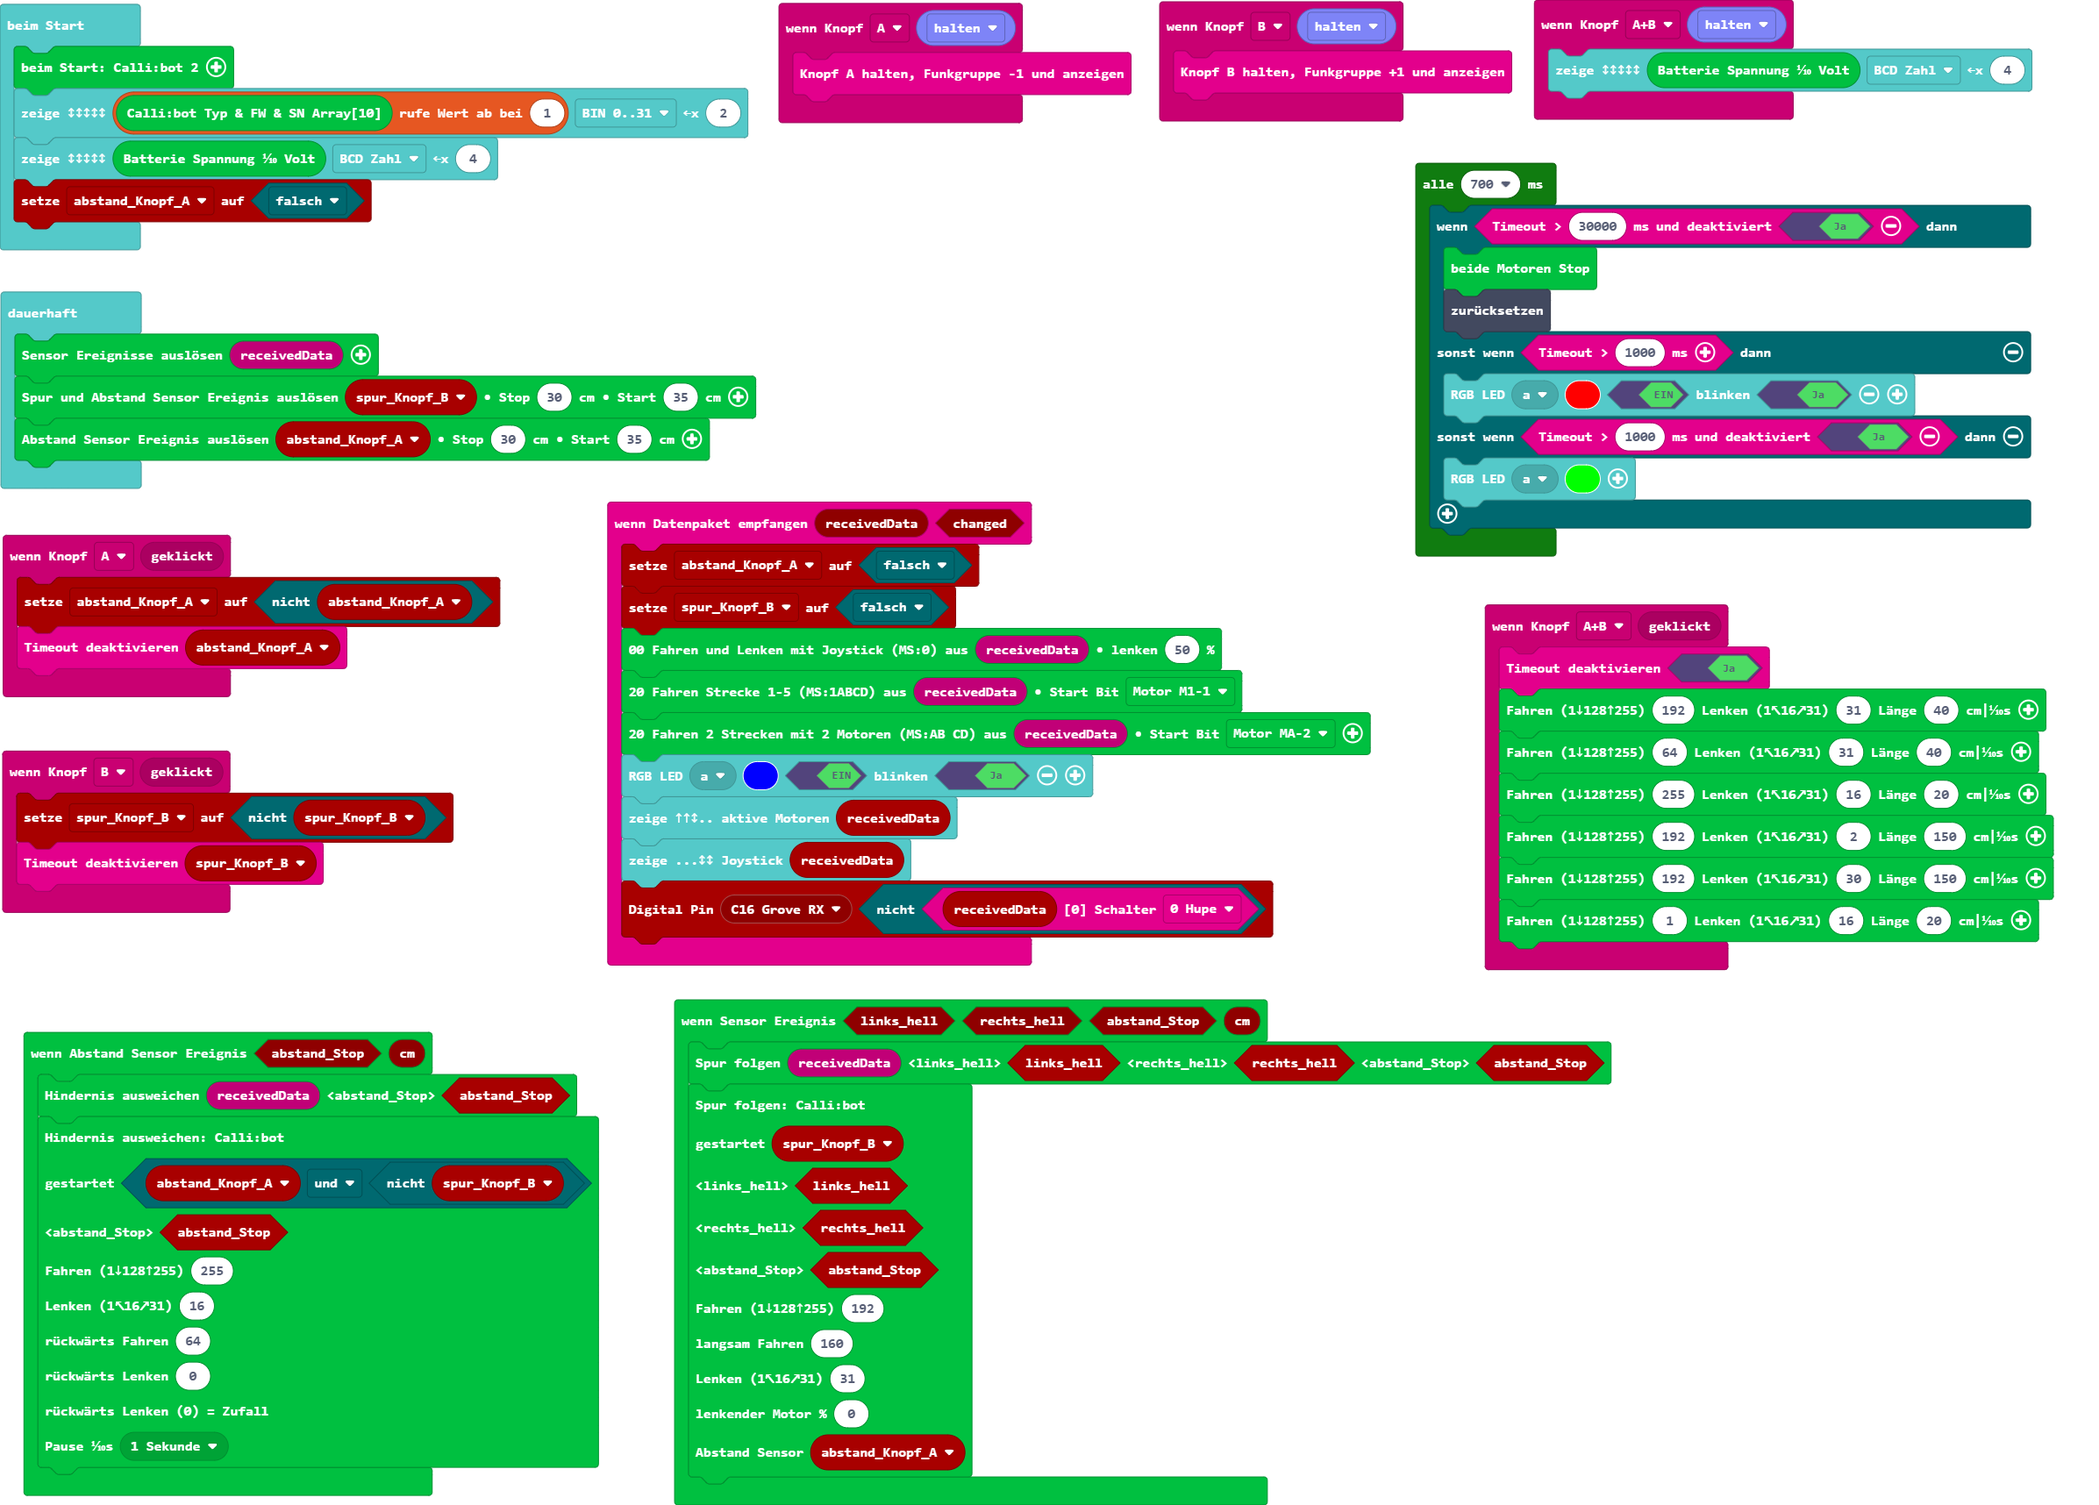
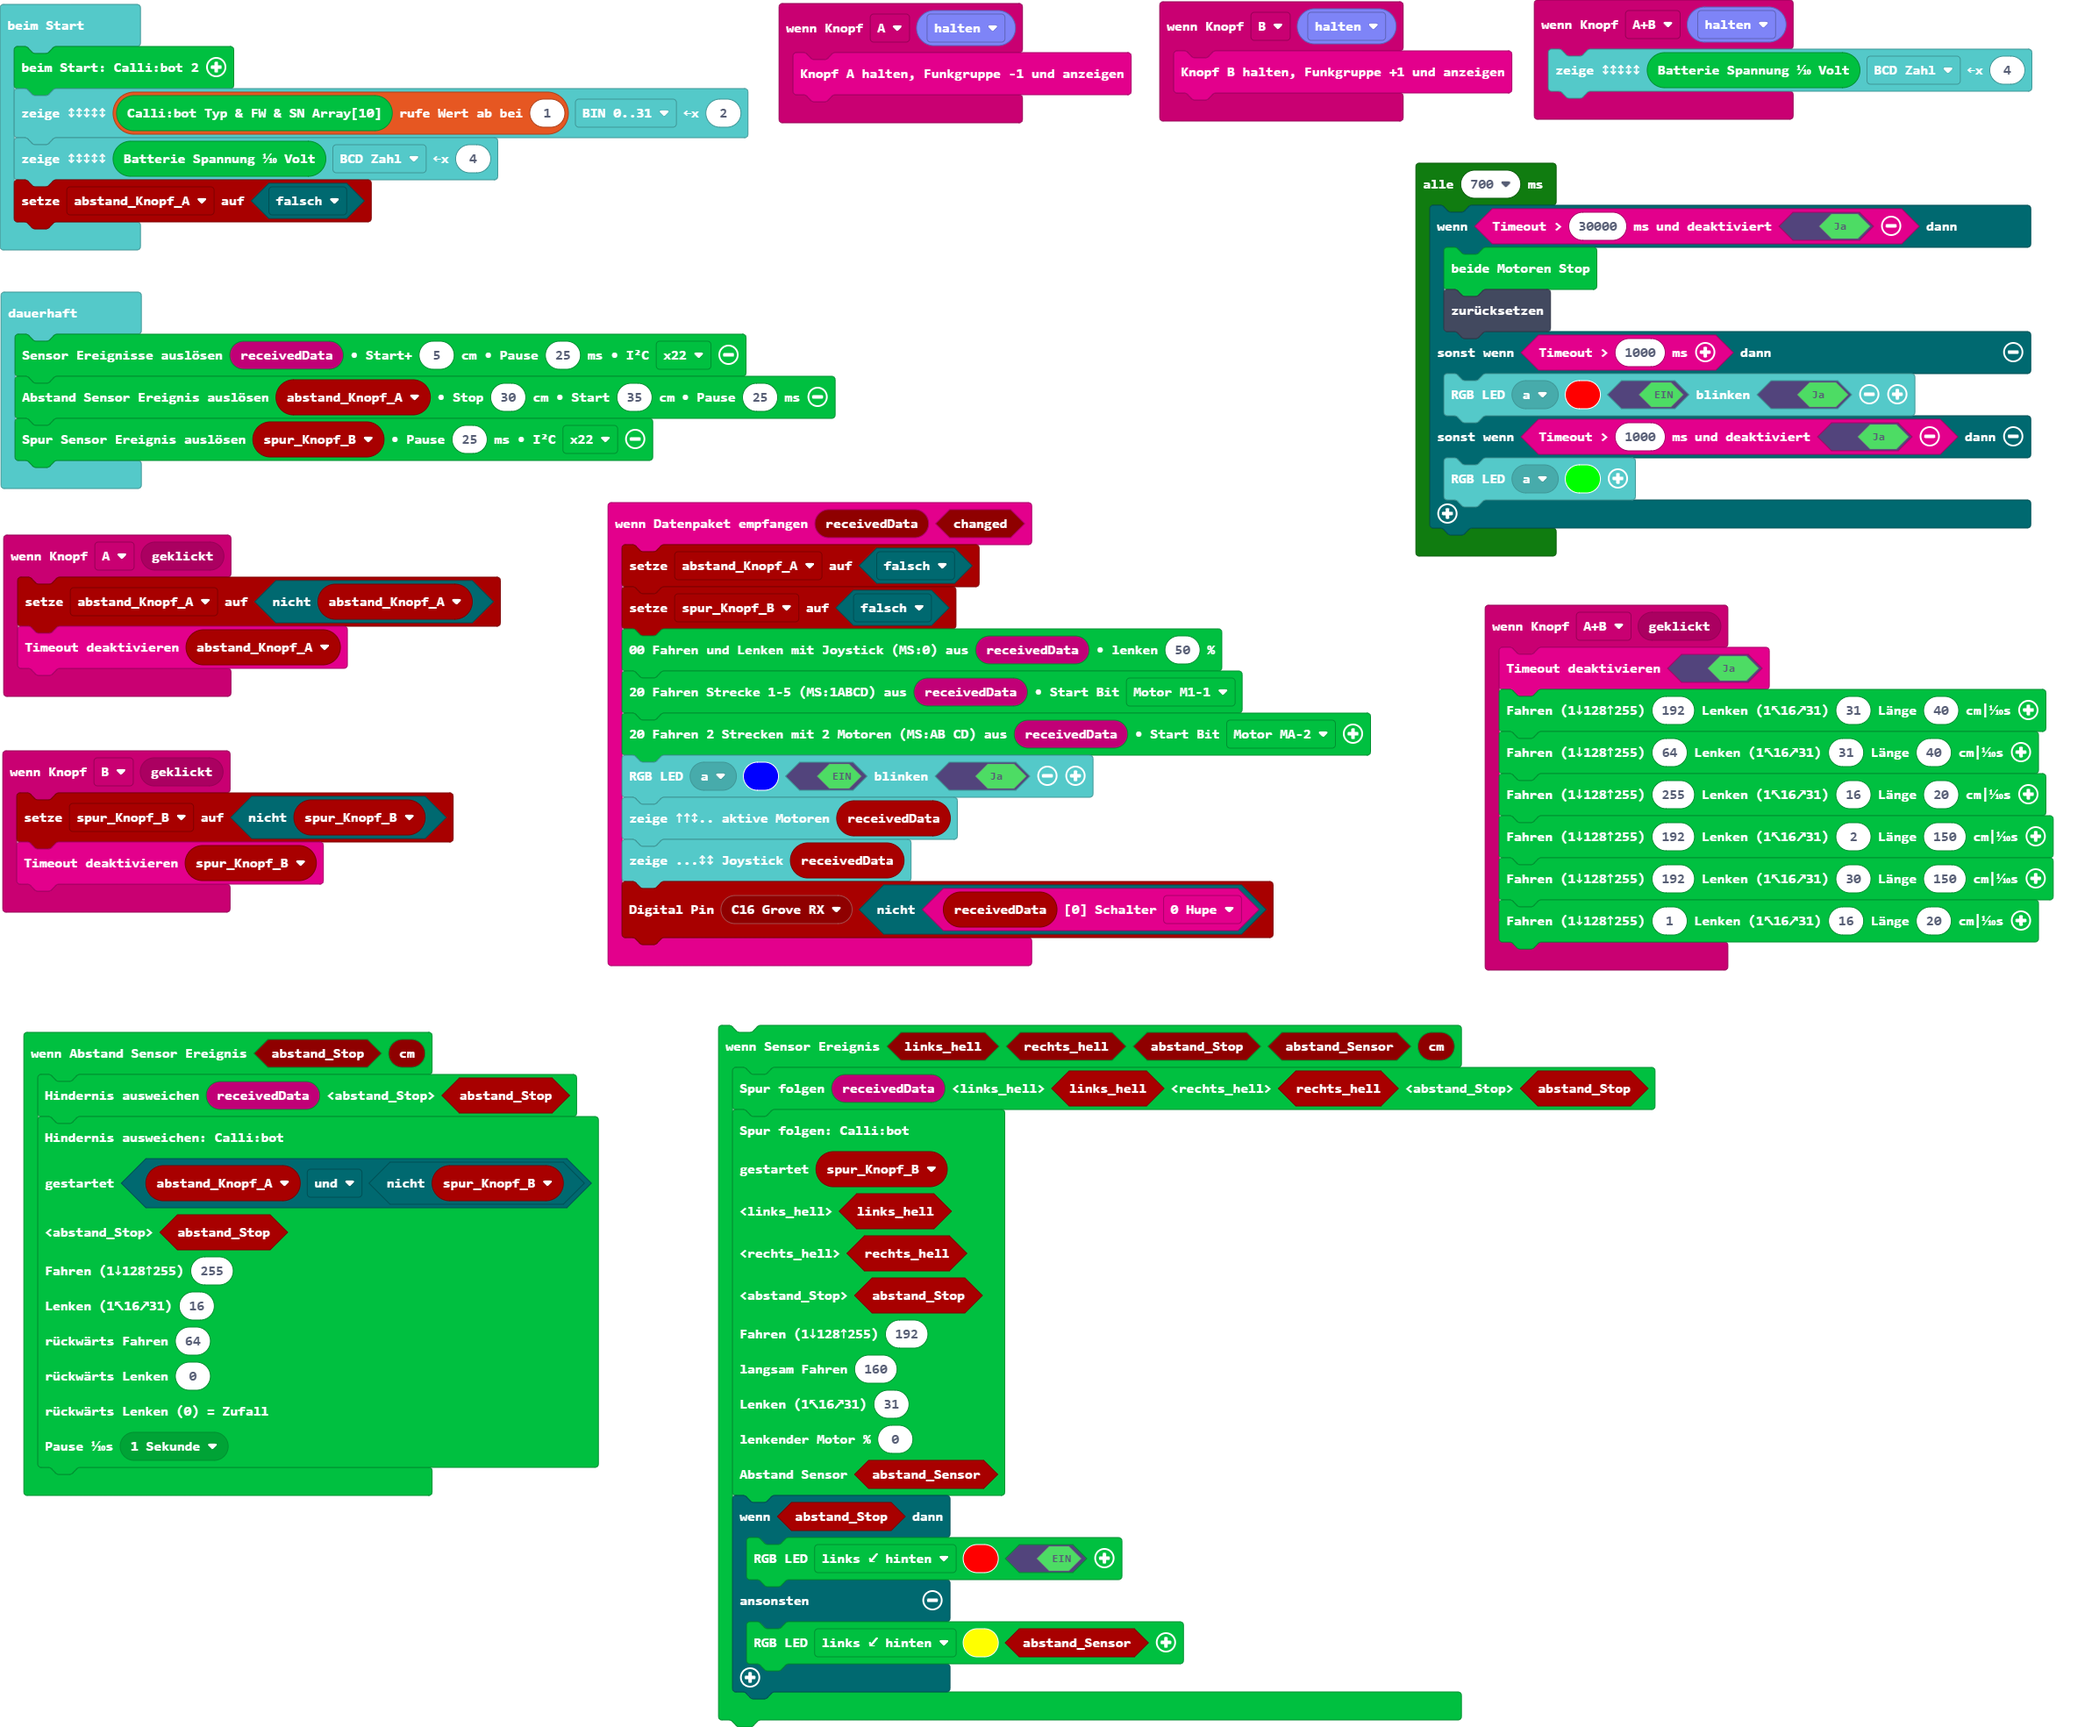
Aktualisiere pxt.json, main.blocks, main.ts

diff --git a/main.ts b/main.ts
@@ -44,7 +44,7 @@ btf.onReceivedDataChanged(function (receivedData, changed) {
     btf.zeige5x5Joystick(receivedData)
     pins.pinDigitalWrite(pins.pins_eDigitalPins(pins.eDigitalPins.C16), !(btf.getSchalter(receivedData, btf.e0Schalter.b0)))
 })
-cb2.onSensorEvent(function (links_hell, rechts_hell, abstand_Stop, cm) {
+cb2.onSensorEvent(function (links_hell, rechts_hell, abstand_Stop, abstand_Sensor, cm) {
     cb2.buffer_Spur_folgen(btf.btf_receivedBuffer19(), links_hell, rechts_hell, abstand_Stop)
     cb2.event_Spur_folgen(
     spur_Knopf_B,
@@ -55,8 +55,13 @@ cb2.onSensorEvent(function (links_hell, rechts_hell, abstand_Stop, cm) {
     160,
     31,
     0,
-    abstand_Knopf_A
+    abstand_Sensor
     )
+    if (abstand_Stop) {
+        cb2.writecb2RgbLed(cb2.eRgbLed.lh, 0xff0000, true)
+    } else {
+        cb2.writecb2RgbLed(cb2.eRgbLed.lh, 0xffff00, abstand_Sensor)
+    }
 })
 input.onButtonEvent(Button.A, btf.buttonEventValue(ButtonEvent.Hold), function () {
     btf.buttonAhold()
@@ -68,9 +73,9 @@ btf.zeigeBIN(cb2.readVersionArray()[1], btf.ePlot.bin, 2)
 btf.zeigeBIN(cb2.readSpannung(), btf.ePlot.bcd, 4)
 abstand_Knopf_A = false
 basic.forever(function () {
-    cb2.raiseBufferEvents(btf.btf_receivedBuffer19())
-    cb2.raiseSensorEvent(spur_Knopf_B, 30, 35)
-    cb2.raiseAbstandEvent(abstand_Knopf_A, 30, 35)
+    cb2.raiseBufferEvents(btf.btf_receivedBuffer19(), 5, 25, cb2.eI2C.x22)
+    cb2.raiseAbstandEvent(abstand_Knopf_A, 30, 35, 25)
+    cb2.raiseSpurEvent(spur_Knopf_B, 25, cb2.eI2C.x22)
 })
 loops.everyInterval(700, function () {
     if (btf.timeout(30000, true)) {
